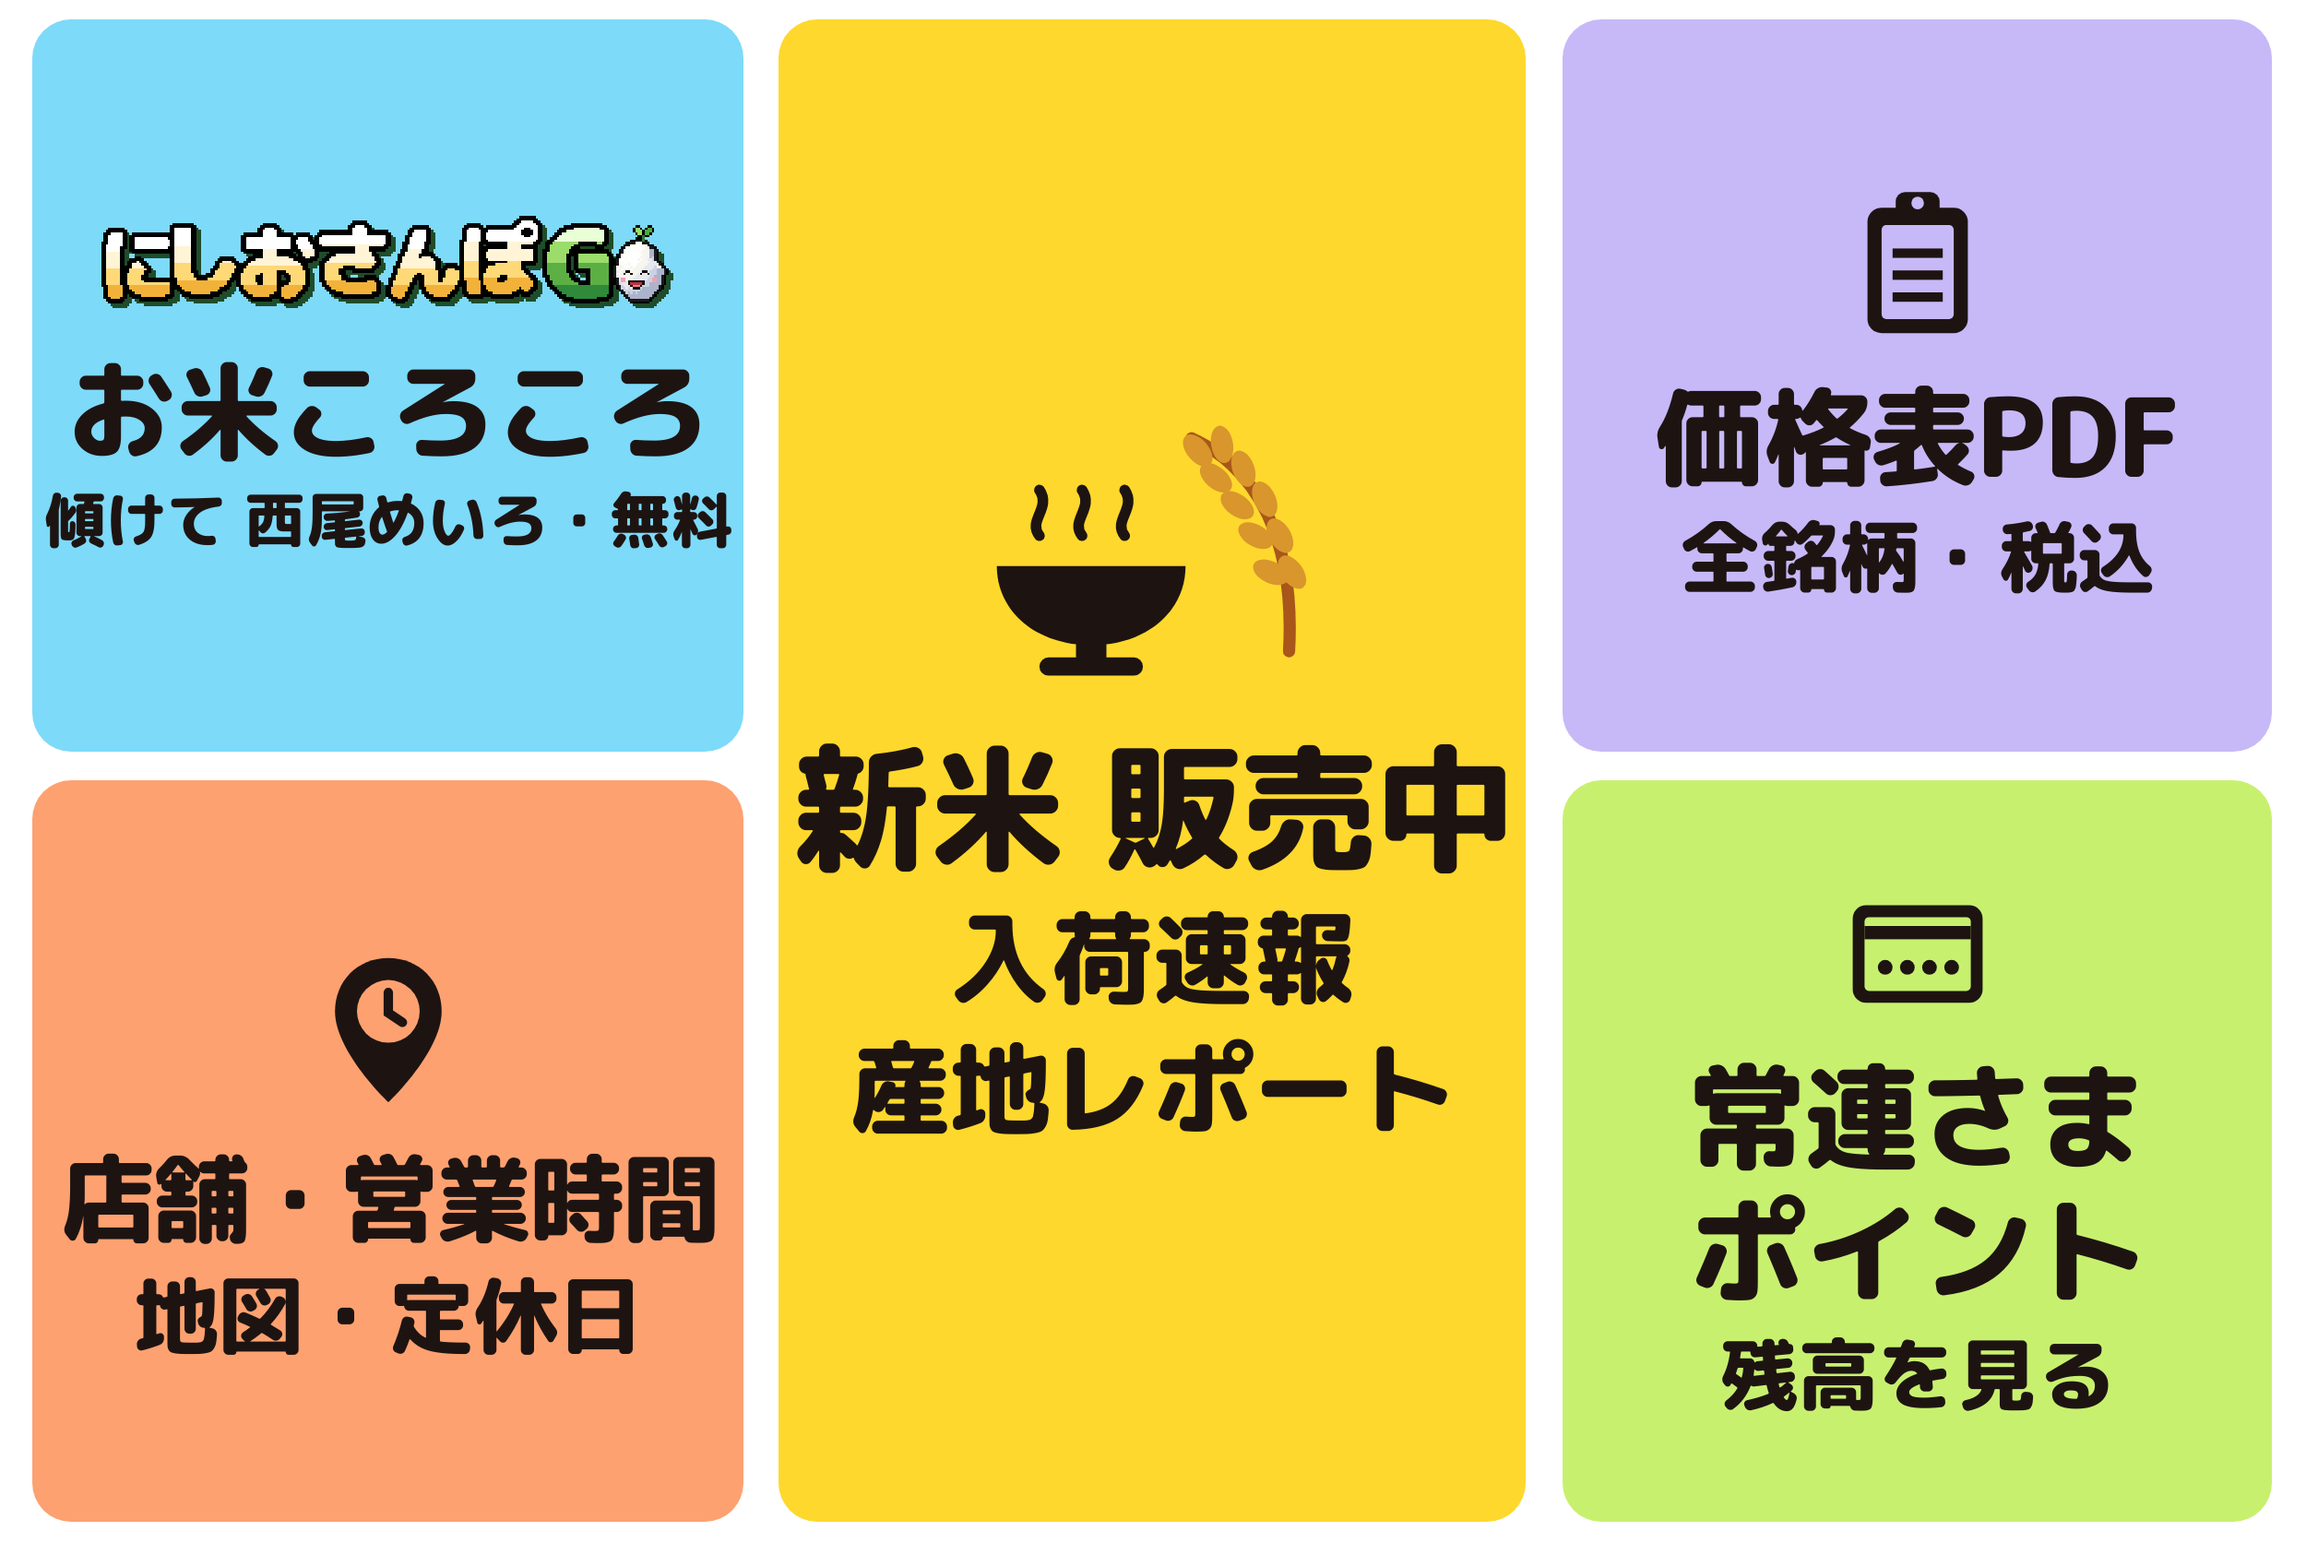
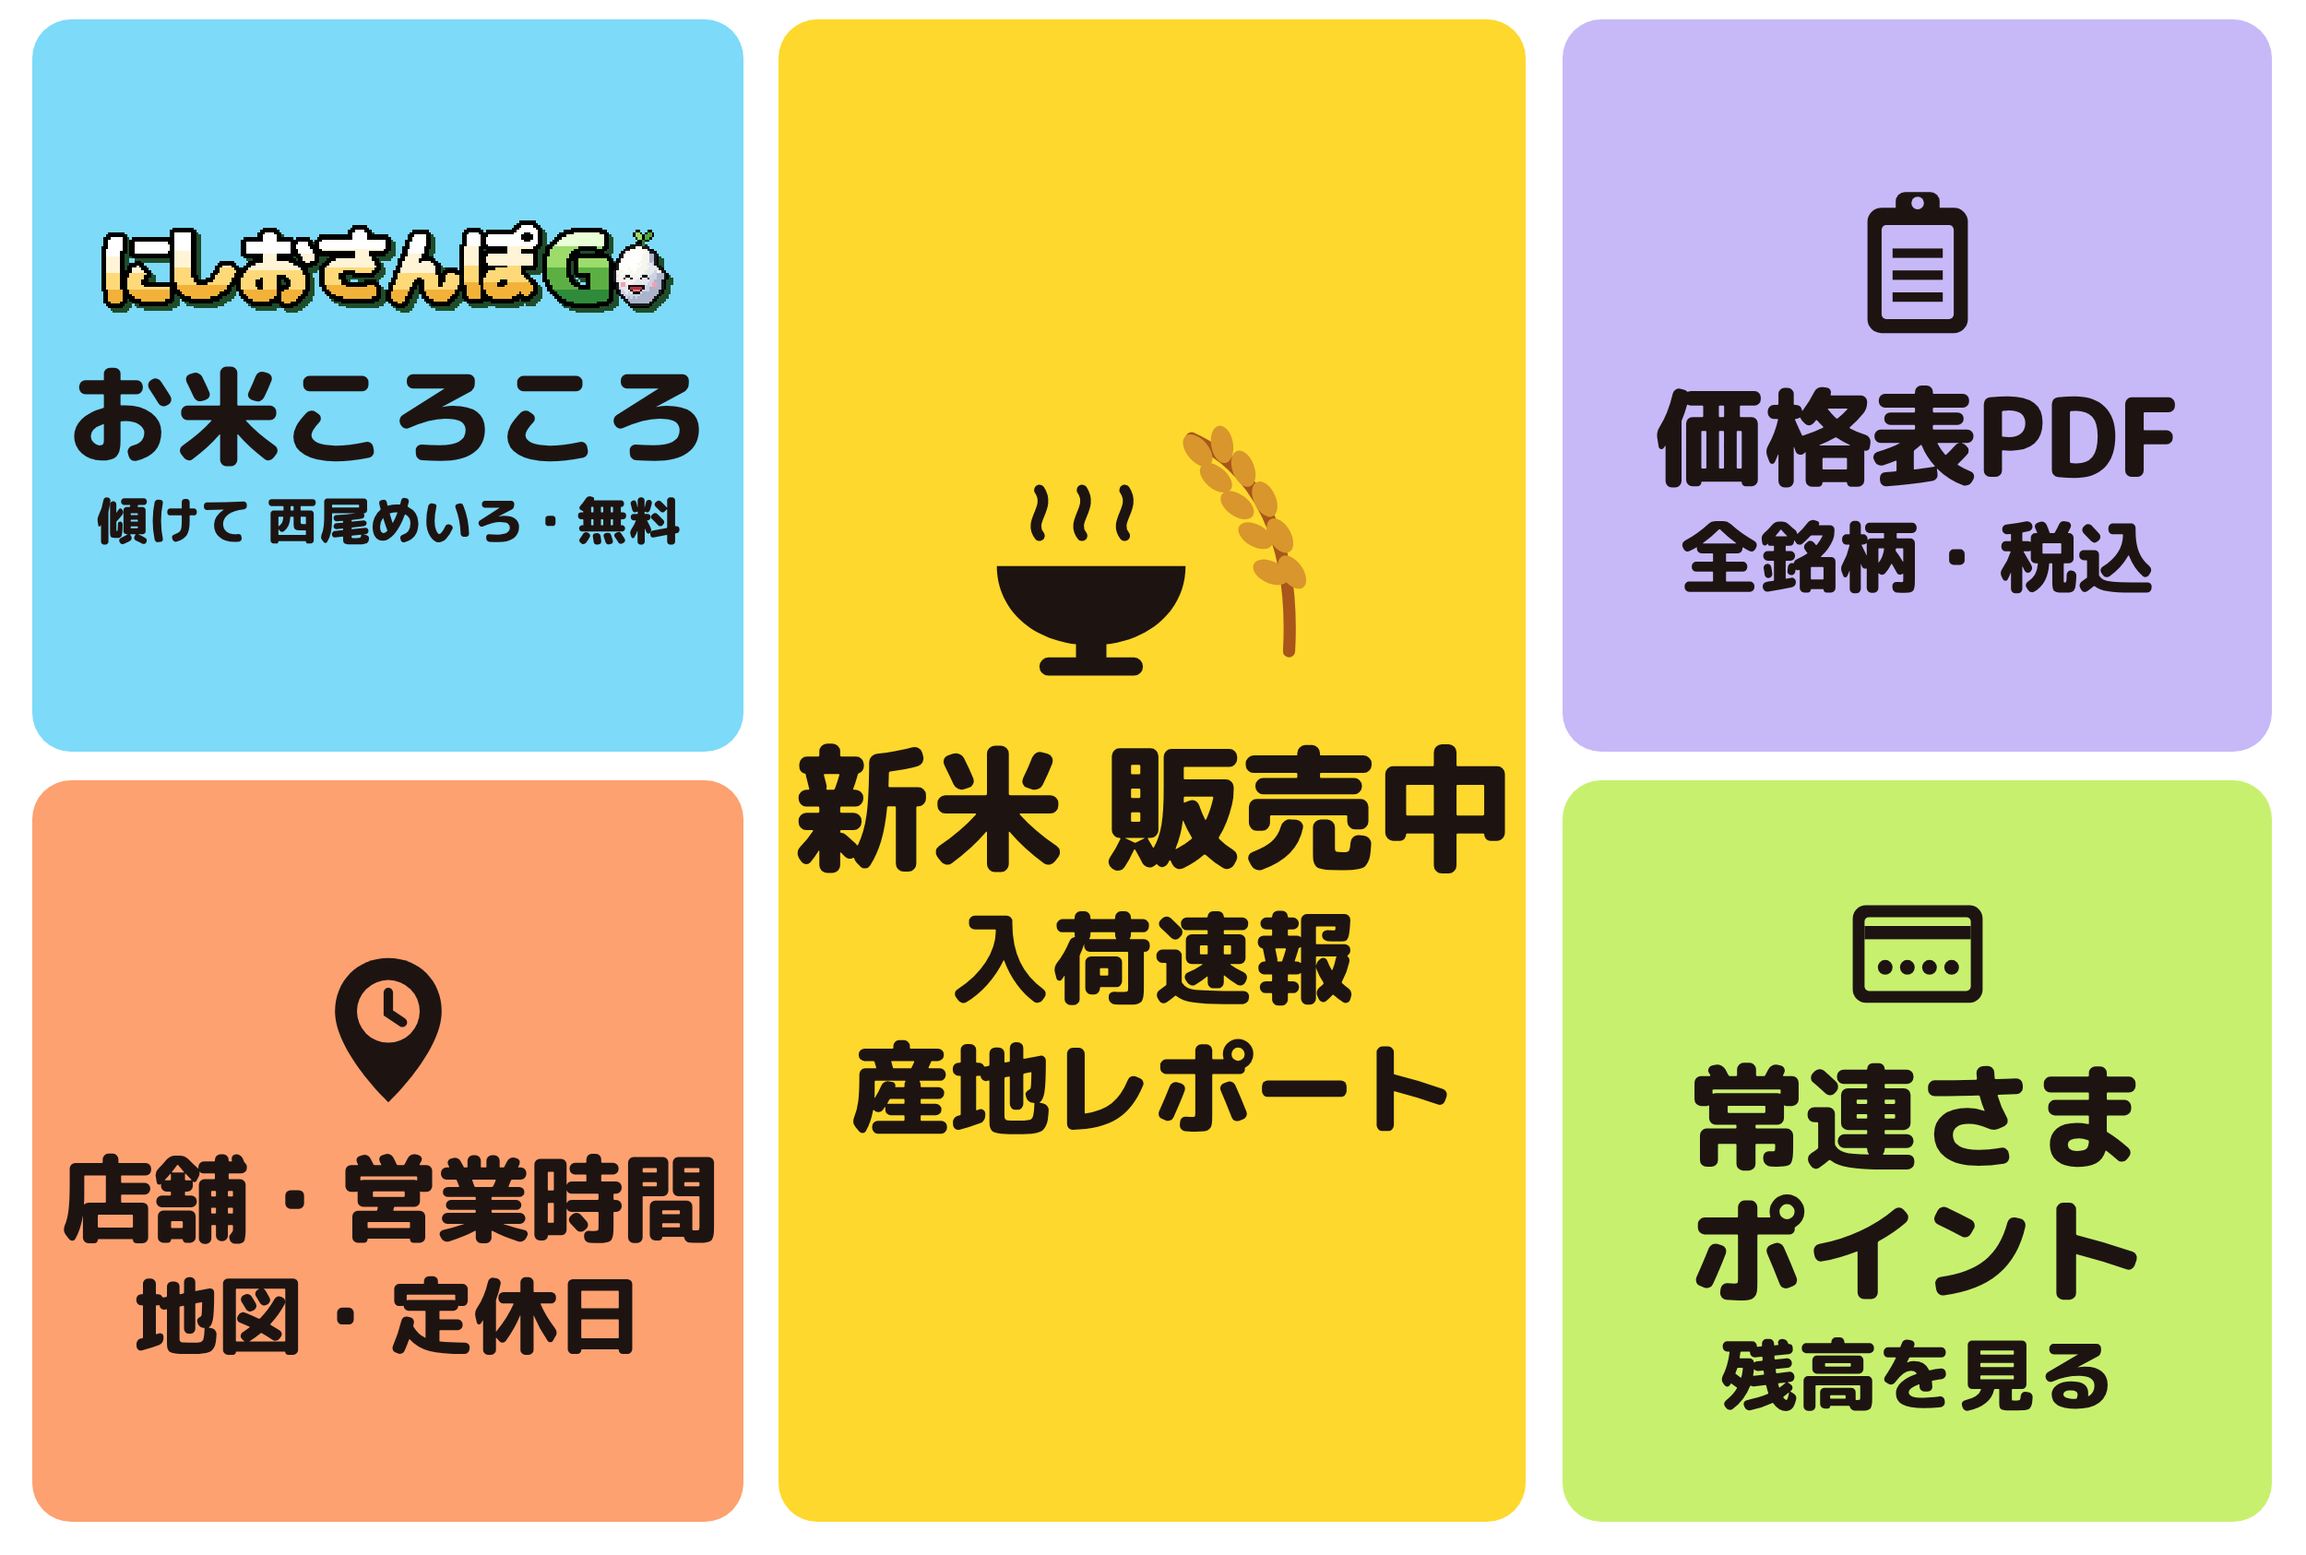
LINE リッチメニュー：ゲームのマスの下の行がはみ出さないように直し、差しかえの手順に今の状態を書く
Claude-Session: https://claude.ai/code/session_01LKyh5zrgZ1g3dd89iSPEFE

Changed region(s): [[0.0, 0.1234, 0.312, 0.3701], [0.0936, 0.8327, 0.1248, 0.8636]]

diff --git a/tools/make-promo.js b/tools/make-promo.js
@@ -173,7 +173,7 @@ async function endCard(page) {
       ${[[80, 18, -40], [88, 16, -10], [86, 27, -50], [95, 24, -20], [93, 36, -55], [102, 34, -25], [99, 46, -60], [107, 46, -30], [104, 58, -65], [111, 58, -35]].map(([x, y, r]) => `<ellipse cx="${x}" cy="${y}" rx="3.6" ry="6.2" transform="rotate(${r} ${x} ${y})" fill="#d8962c"/>`).join('')}</svg>`;
     // 位置（2500×1686）：左 35〜806・中 844〜1654・右 1694〜2463、上 21〜815・下 846〜1650（中のマスは上下つなぎ）
     return `<div style="position:absolute;inset:0;background:#fff"></div>
-      ${tileBox(35, 21, 806, 815, '#7ddaf9', `<img src="${logoUrl}" style="width:700px;margin-bottom:40px">${big('お米ころころ', 118)}${sub('傾けて 西尾めいろ・無料', 66)}`)}
+      ${tileBox(35, 21, 806, 815, '#7ddaf9', `<img src="${logoUrl}" style="width:700px;margin-bottom:40px">${big('お米ころころ', 118)}${sub('傾けて 西尾めいろ・無料', 56)}`)}
       ${tileBox(35, 846, 806, 1650, '#fda170', `${pin}${big('店舗・営業時間', 104)}${sub('地図・定休日', 92)}`)}
       ${tileBox(844, 21, 1654, 1650, '#fed82c', `${rice}${big('新米 販売中', 150)}${sub('入荷速報', 110)}${sub('産地レポート', 110)}`)}
       ${tileBox(1694, 21, 2463, 815, '#c7b9f8', `${clipboard}${big('価格表PDF', 118)}${sub('全銘柄・税込', 86)}`)}

diff --git a/docs/ads-game-kit.md b/docs/ads-game-kit.md
@@ -126,6 +126,8 @@ LINE 公式アカウントのリッチメニューは、LINE Official Account Ma
 いまのメニュー（大きいサイズ 2500×1686・5マス）の絵をそのまま写して、ドライブスルーのマスだけ「お米ころころ（傾けて 西尾めいろ・無料）」に替えた1枚の画像を用意しました：
 `mkt/nishio-go/richmenu-2500x1686.png`（`tools/make-promo.js` の `richMenu()`）。ほかの4マスは、位置・色・文字ともいまのままです。
 
+2026-10-25 の時点で、LINE に出ているのは前の絵（「お散歩ゲーム／西尾をあるく・無料」）のままです。いまのゲーム（傾けて お米を転がす めいろ）に合わせた この絵に 差しかえてください（下のマスの文字は、マスの はばに おさまる 大きさに 直してあります）。
+
 1. LINE Official Account Manager → ホーム → トークルーム管理 → リッチメニュー → いま表示中のメニュー →「編集」
 2. 画像：「背景画像をアップロード」で `richmenu-2500x1686.png` をアップロードする（テンプレートはいまのまま）
 3. アクション：左上のマス（ドライブスルーだった所）を「リンク」にして、URL を `https://go.ricepia.jp/?utm_source=line&utm_medium=richmenu&utm_campaign=game`、ラベルを「お米ころころ」にする。ほかの4マスのアクションは変えない
